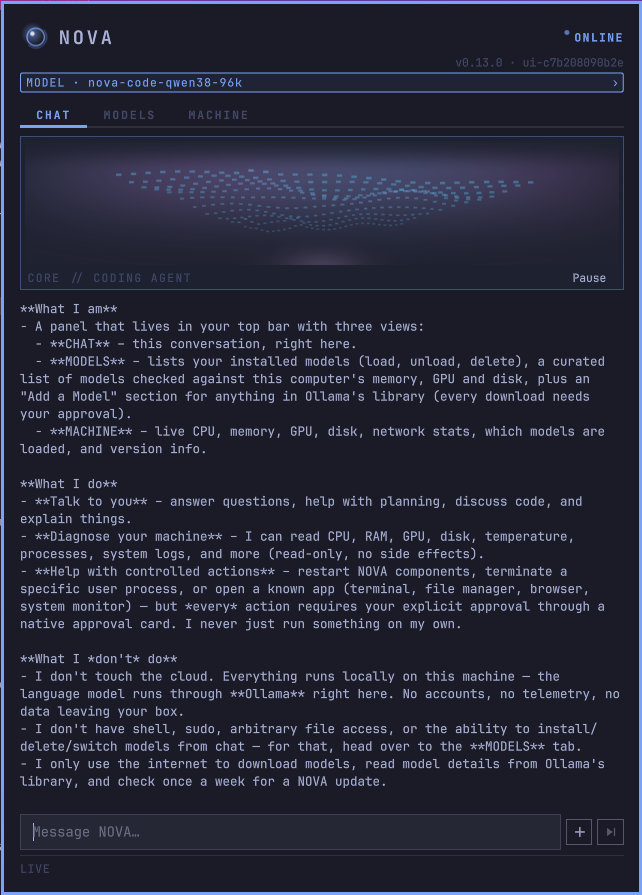
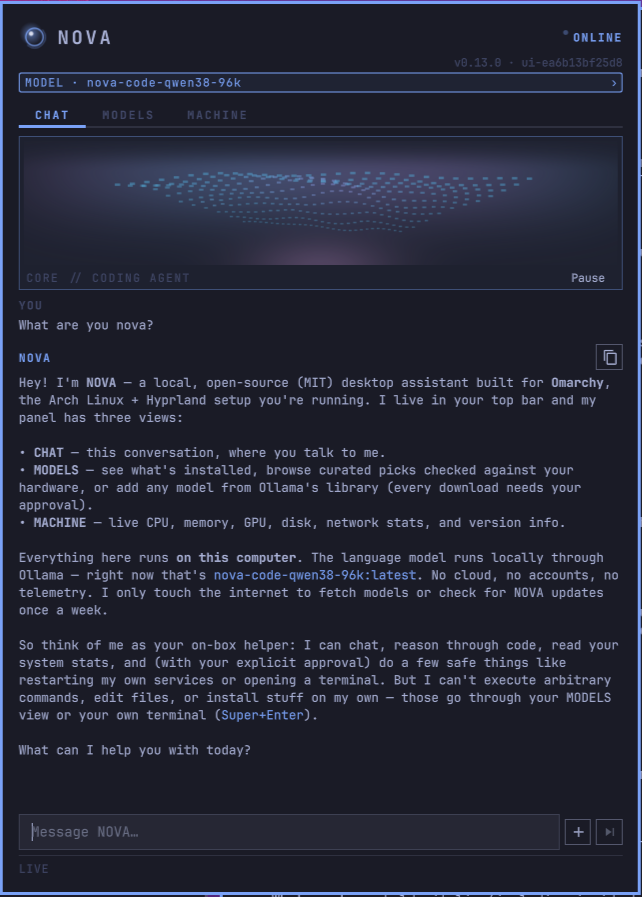
NOVA 0.13.1: formatted chat answers, NOVA knows what it is, new screenshots

diff --git a/Panel.qml b/Panel.qml
@@ -172,6 +172,41 @@ Ui.Panel {
   property var catalogModels: []
   // The shipped model list's date: its newest checked entry (catalog upkeep, 2026-10-10).
   // Installs follow small Ollama changes by themselves; an old list only misses newer models.
+  // Chat answers as light formatting (2026-10-10). Model output is untrusted: everything is
+  // HTML-escaped first, then only bold, italic, code, code blocks, headings and lists are
+  // added back as tags NOVA writes itself. Qt's own Markdown mode fetched image URLs from
+  // the text and rendered raw HTML, so it is not used: images show their alt text, links
+  // show as text with the address, and nothing is fetched or clickable.
+  function chatMarkdownHtml(source) {
+    function esc(s) { return s.replace(/&/g, "&amp;").replace(/</g, "&lt;").replace(/>/g, "&gt;").replace(/"/g, "&quot;") }
+    var codeColor = String(root.accent), mutedColor = String(root.muted)
+    function inline(s) {
+      var codes = []
+      s = s.replace(/`([^`]+)`/g, function(m, c) { codes.push(c); return "\u0001" + (codes.length - 1) + "\u0001" })
+      s = s.replace(/!\[([^\]]*)\]\([^)]*\)/g, "$1")
+      s = s.replace(/\[([^\]]+)\]\(([^)\s]+)\)/g, "$1 ($2)")
+      s = s.replace(/\*\*(?=\S)(.+?\S)\*\*/g, "<b>$1</b>").replace(/__(?=\S)(.+?\S)__/g, "<b>$1</b>")
+      s = s.replace(/(^|[^*\w])\*(?=\S)([^*]*?\S)\*(?![*\w])/g, "$1<i>$2</i>")
+      return s.replace(/\u0001(\d+)\u0001/g, function(m, i) { return "<span style=\"color:" + codeColor + "\">" + codes[Number(i)] + "</span>" })
+    }
+    function indent(spaces) { return new Array(Math.floor(spaces.length / 2) * 3 + 1).join("&nbsp;") }
+    var lines = esc(String(source || "")).split("\n"), out = [], fence = null
+    lines.forEach(function(line) {
+      if (/^\s*```/.test(line)) {
+        if (fence === null) { fence = []; return }
+        out.push("<pre style=\"color:" + codeColor + "\">" + fence.join("\n") + "</pre>"); fence = null; return
+      }
+      if (fence !== null) { fence.push(line); return }
+      var m
+      if ((m = line.match(/^#{1,6}\s+(.*)$/))) out.push("<b>" + inline(m[1]) + "</b>")
+      else if (/^\s*([-*_])(\s*\1){2,}\s*$/.test(line)) out.push("<span style=\"color:" + mutedColor + "\">──────</span>")
+      else if ((m = line.match(/^(\s*)[-*+]\s+(.*)$/))) out.push(indent(m[1]) + "•&nbsp;" + inline(m[2]))
+      else if ((m = line.match(/^(\s*)(\d+)[.)]\s+(.*)$/))) out.push(indent(m[1]) + m[2] + ".&nbsp;" + inline(m[3]))
+      else out.push(inline(line))
+    })
+    if (fence !== null) out.push("<pre style=\"color:" + codeColor + "\">" + fence.join("\n") + "</pre>")  // still streaming
+    return out.join("<br>").replace(/<br>(<pre)/g, "$1").replace(/(<\/pre>)<br>/g, "$1")
+  }
   function modelListLine(nowMs) {
     var newest = ""
     catalogModels.forEach(function(item) {
@@ -3400,12 +3435,12 @@ Ui.Panel {
       anchors.topMargin: header.height + (chatLine.hasSources ? sourceLabel.implicitHeight + Style.spacing.xxs : 0) + Style.spacing.xs
       width: parent.width
       height: contentHeight
-      text: chatLine.text
+      text: chatLine.role === "assistant" ? root.chatMarkdownHtml(chatLine.text) : chatLine.text
       readOnly: true
       selectByMouse: true
       persistentSelection: true
       wrapMode: TextEdit.Wrap
-      textFormat: TextEdit.PlainText
+      textFormat: chatLine.role === "assistant" ? TextEdit.RichText : TextEdit.PlainText
       color: root.foreground
       selectionColor: Style.selectionFillFor(root.foreground, root.accent)
       selectedTextColor: root.foreground

diff --git a/tools/check_ux_phase2_interaction.py b/tools/check_ux_phase2_interaction.py
@@ -254,6 +254,22 @@ QML_CHECK = r'''
         check(item("machineVersions").text.indexOf("Ollama version unknown") > 0, "installed, no version")
         previewHost.gpuAvailable = true; novaPanel.graphicsDevices = null; novaPanel.providerVersion = "0.33.3"
       })
+      test("chat answers: light Markdown, and model output can never add tags or fetch anything", function() {
+        var html = novaPanel.chatMarkdownHtml
+        check(html("**What I am**") === "<b>What I am</b>", "bold: " + html("**What I am**"))
+        check(html("an *every* action") === "an <i>every</i> action", "italic: " + html("an *every* action"))
+        check(html("2 * 3 * 4") === "2 * 3 * 4", "lone stars stay: " + html("2 * 3 * 4"))
+        check(html("**What I *don't* do**") === "<b>What I <i>don't</i> do</b>", "nested: " + html("**What I *don't* do**"))
+        check(html("use `ollama list`").indexOf(">ollama list</span>") > 0, "code: " + html("use `ollama list`"))
+        check(html("## Heading") === "<b>Heading</b>", "heading: " + html("## Heading"))
+        check(html("- one\n  - two") === "•&nbsp;one<br>&nbsp;&nbsp;&nbsp;•&nbsp;two", "list: " + html("- one\n  - two"))
+        check(html("1. first") === "1.&nbsp;first", "numbered: " + html("1. first"))
+        check(html("```\nx <y>\n```").indexOf("<pre") === 0 && html("```\nx <y>\n```").indexOf("x &lt;y&gt;") > 0, "fence: " + html("```\nx <y>\n```"))
+        check(html("```\nstill streaming").indexOf("<pre") === 0, "open fence while streaming")
+        var hostile = html("<b>raw</b> <img src=\"http://127.0.0.1:1/x\"> ![pic](http://127.0.0.1:1/p.png) [site](http://127.0.0.1:1/l) <script>x</script> & done")
+        check(hostile.indexOf("<img") < 0 && hostile.indexOf("<script") < 0 && hostile.indexOf("<a ") < 0 && hostile.indexOf("<b>raw") < 0, "tags leaked: " + hostile)
+        check(hostile.indexOf("&lt;b&gt;raw&lt;/b&gt;") === 0 && hostile.indexOf(" pic ") > 0 && hostile.indexOf("site (http://127.0.0.1:1/l)") > 0 && hostile.indexOf("&amp; done") > 0, "shown as text: " + hostile)
+      })
       test("catalog upkeep: VERSIONS dates the model list and nudges after 60 days", function() {
         var saved = novaPanel.catalogModels
         novaPanel.catalogModels = [{catalog_id: "a", metadata: {checked_at: "2026-09-08T12:21:36Z"}},

diff --git a/tests/test_nova_install.py b/tests/test_nova_install.py
@@ -96,7 +96,7 @@ class InstallerTests(unittest.TestCase):
         first = app._stage_plugin()
         self.assertIsNotNone(first)
         first_panel = (first / "Panel.qml").read_text()
-        self.assertIn('packagedUiIdentity: "v0.13.0 · ui-', first_panel)
+        self.assertIn('packagedUiIdentity: "v0.13.1 · ui-', first_panel)
         self.assertNotIn(install.PANEL_IDENTITY_MARKER, first_panel)
         repeat = app._stage_plugin()
         self.assertEqual(first_panel, (repeat / "Panel.qml").read_text())
@@ -111,7 +111,7 @@ class InstallerTests(unittest.TestCase):
         self.mutate("setup", app)
         installed = self.home / ".config/omarchy/plugins" / install.PLUGIN_ID / "Panel.qml"
         original = installed.read_bytes()
-        self.assertIn(b'packagedUiIdentity: "v0.13.0', original)
+        self.assertIn(b'packagedUiIdentity: "v0.13.1', original)
         (self.source / "Panel.qml").write_text((self.source / "Panel.qml").read_text() + "\n// next UI\n")
         failing = self.app(ops=MockOps(fail=("start", "novad.service")))
         with self.assertRaises(RuntimeError): self.mutate("update", failing)

diff --git a/novad/server.py b/novad/server.py
@@ -667,7 +667,7 @@ def run_agent_loop(user_message: str, on_token: Callable[[str], None] | None = N
     raise OllamaFailure("Diagnostic tool-call safety limit reached.")
 
 class Handler(BaseHTTPRequestHandler):
-    server_version = "novad/0.13.0"
+    server_version = "novad/0.13.1"
     def log_message(self, _format: str, *_args: Any) -> None: return
     def send_json(self, status: HTTPStatus, payload: dict[str, Any]) -> bool:
         body = json.dumps(payload, separators=(",", ":")).encode()

diff --git a/docs/HOW_IT_WORKS.md b/docs/HOW_IT_WORKS.md
@@ -14,7 +14,8 @@
 
 - **Panel** (`Panel.qml`, `BarWidget.qml`): everything you see. It holds no secrets
   and makes no decisions about safety; it shows what the services report and sends
-  your clicks.
+  your clicks. Chat answers get light formatting (bold, code, lists); the model's
+  text is escaped first, so an answer can't load images, follow links or add markup.
 - **novad** (`novad/`): the brain. Chat with tool calls, model selection and loading,
   the model catalog, memory-fit estimates, approvals and the install lifecycle.
   Python standard library only.

diff --git a/CHANGELOG.md b/CHANGELOG.md
@@ -1,5 +1,14 @@
 # Changelog
 
+## 0.13.1
+
+- Chat answers are formatted: bold, italic, code, code blocks, headings and lists.
+  Model output is escaped first, so an answer can never load an image, open a link
+  or inject markup.
+- NOVA knows what it is: asked "what are you?", it describes its three views, that
+  everything runs locally, and which model it's running on.
+- New screenshots.
+
 ## 0.13.0 — first public release
 
 - **CHAT** with local models through Ollama, with live system lookups and an
